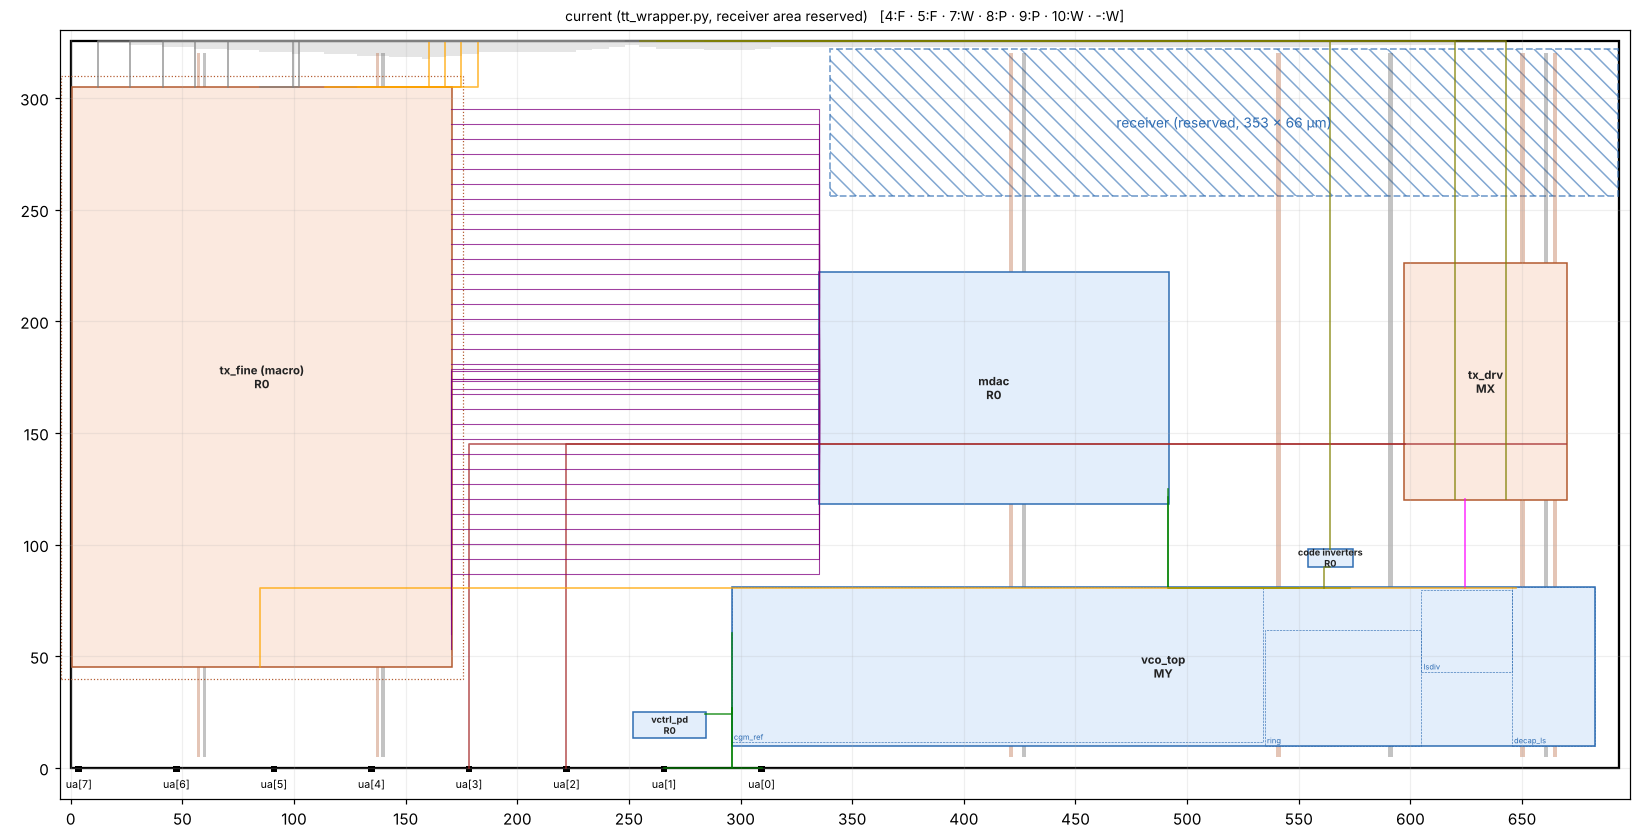
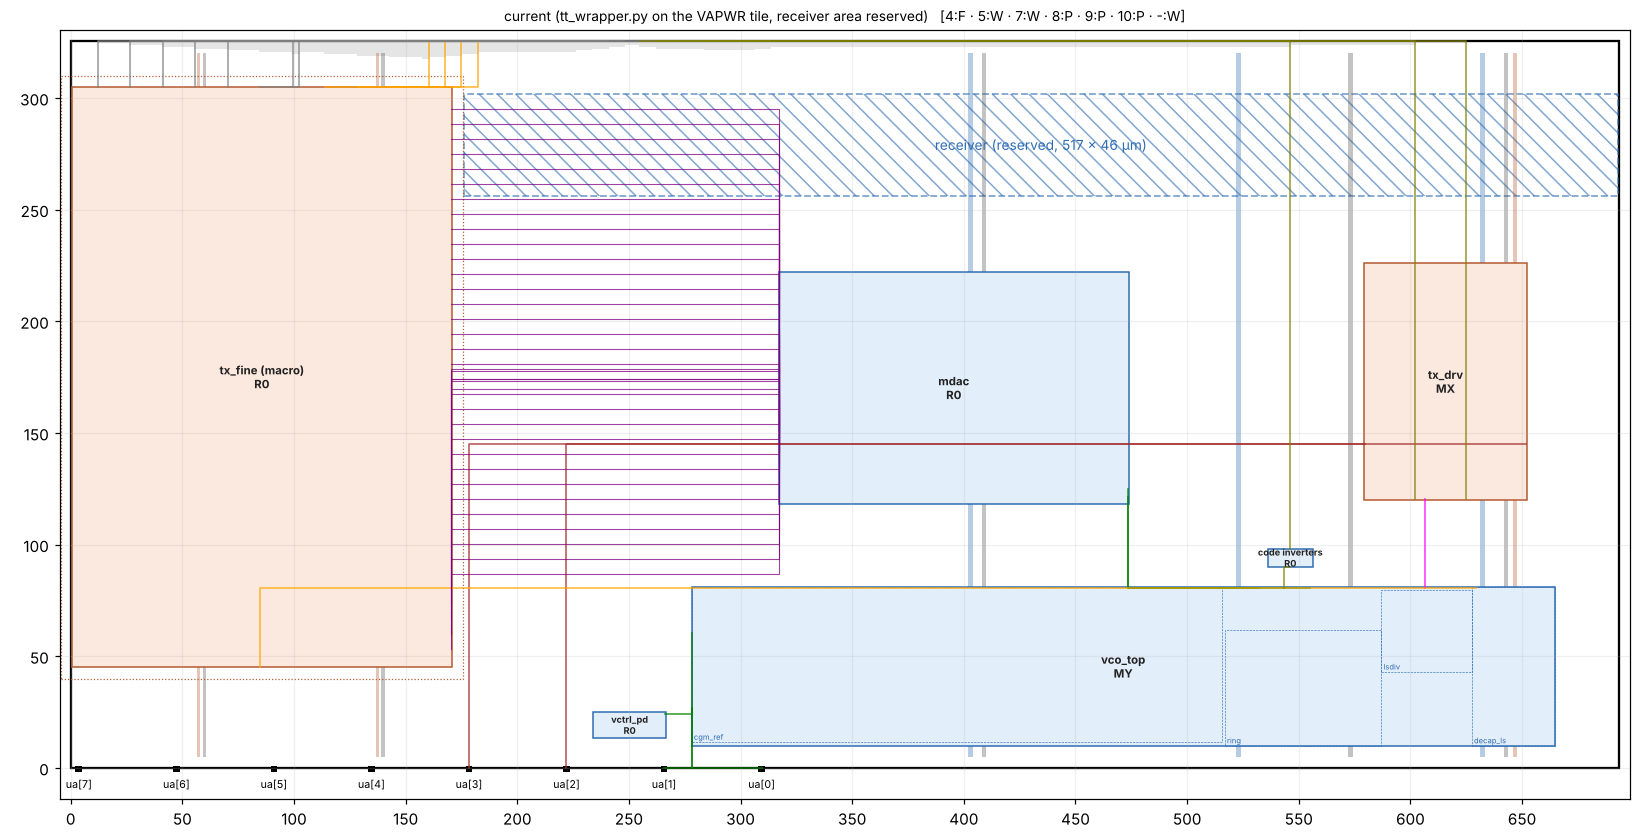
floorplan: "current" moved onto the VAPWR template (pgvaa)
Every block and stripe shifted 17.92 um left with the pins (the macro stays at x 0.6); the stripes on vco_top, mdac
and the code inverters become VAPWR. check.js --current compares against tt_wrapper's bboxes plus the shift.

Claude-Session: https://claude.ai/code/session_011q23dScbDKopB6GSLnshRw

diff --git a/layout/floorplan/page/place.js b/layout/floorplan/page/place.js
@@ -241,15 +241,16 @@ const SPECS = [
 
 function current() {
   const c = JSON.parse(fs.readFileSync(path.join(dir, 'current.json')));
-  const v = { id: 'current', name: 'current (tt_wrapper.py, receiver area reserved)', rx: 'block', order: 0, place: {}, decaps: {}, est: {}, straps: c.straps, reserved: [] };
+  const v = { id: 'current', name: 'current (tt_wrapper.py on the VAPWR tile, receiver area reserved)', rx: 'block', order: 0, place: {}, decaps: {}, est: {}, straps: c.straps, reserved: [] };
   for (const [n, p] of Object.entries(c.place)) v.place[n] = Object.assign({}, p);
   // the routes tt_wrapper draws, so the reserved area stays off them (out_n / out_p bars, the ua[0..3] drops, the
-  // bit / ck / top-pin tracks): rough keep-out boxes
-  const routes = [[178, 228, 520, 28], [178, 0, 15, 260], [233, 0, 15, 245], [250, 0, 60, 16], [170, 98, 450, 16], [170, 302, 160, 23]];
+  // bit / ck / top-pin tracks): rough keep-out boxes, in the wrapper's tile, moved with the blocks
+  const routes = [[178, 228, 520, 28], [178, 0, 15, 260], [233, 0, 15, 245], [250, 0, 60, 16], [170, 98, 450, 16], [170, 302, 160, 23]]
+    .map(r => [r[0] - 17.92, r[1], r[2], r[3]]);
   const r = freeRects(v, routes, 2000)[0];
   v.reserved.push({ x: r[0], y: r[1], w: r[2], h: r[3], label: `receiver (reserved, ${r[2]} x ${r[3]} µm)` });
-  v.note = `Today's tile from layout/gen/tt_wrapper.py (positions to 0.01 µm; node layout/floorplan/page/check.js --current), with the largest free rectangle that stays off its routes reserved for the receiver: ${r[2]} × ${r[3]} µm at (${r[0]}, ${r[1]}).\n` +
-    `The wrapper was drawn in the 711.20 µm tile (tt_analog_2x2.def); this page uses the _pgvaa template, 693.28 µm wide with every pin 17.92 µm further left, so its pad wires no longer land. Its stripes are VDPWR / VGND only (no VAPWR yet), so the supply rule fails on purpose. The receiver (rx_top, 299.4 × 370.6 µm) is parked under the tile: it fits nowhere as drawn.`;
+  v.note = `Today's tile from layout/gen/tt_wrapper.py, moved onto the VAPWR template (tt_analog_2x2_pgvaa.def, 693.28 µm wide, every pin 17.92 µm further left than in the wrapper's 711.20 µm tile): every block and stripe shifted 17.92 µm left with the pins, except the macro, which stays at x 0.6 (it would leave the tile). The stripes that fed vco_top, mdac and the code inverters are VAPWR now; tx_drv's and the macro's stay VDPWR. Positions: node layout/floorplan/page/check.js --current.\n` +
+    `The largest free rectangle off the wrapper's routes is reserved for the receiver: ${r[2]} × ${r[3]} µm at (${r[0]}, ${r[1]}). The receiver (rx_top, 299.4 × 370.6 µm, or 70.4k µm² of cells) fits nowhere in this tile as it is.`;
   return v;
 }
 

diff --git a/layout/floorplan/page/check.js b/layout/floorplan/page/check.js
@@ -2,7 +2,8 @@
 //   node layout/floorplan/page/check.js [variants.json | floorplan.json] [--current]
 // Default: layout/floorplan/variants.json (the variants Claude seeds into the page).
 // --current also checks that the "current" variant's blocks sit where tt_wrapper.py puts them (current.json,
-// computed with KLayout from the wrapper's own transformations), to 0.01 um. Exit code 1 if that fails.
+// computed with KLayout from the wrapper's own transformations), moved by current.json's x shift onto the VAPWR tile,
+// to 0.01 um. Exit code 1 if that fails.
 const fs = require('fs');
 const path = require('path');
 require('./engine.js');
@@ -27,8 +28,8 @@ for (const v of variants) {
   if (args.includes('--current') && v.id === 'current') {
     const cur = JSON.parse(fs.readFileSync(path.join(dir, 'current.json')));
     for (const [n, b] of Object.entries(cur.bbox)) {
-      const i = r.R.inst[n], d = i ? Math.max(...i.rect.map((q, k) => Math.abs(q - b[k]))) : Infinity;
-      console.log(`${d <= 0.01 ? 'ok  ' : 'FAIL'} current ${n.padEnd(6)} engine [${i ? i.rect.map(q => q.toFixed(3)).join(', ') : '-'}] vs tt_wrapper [${b.join(', ')}]  max |Δ| ${d.toFixed(4)} µm`);
+      const sh = (cur.shift || {})[n] || 0, i = r.R.inst[n], d = i ? Math.max(...i.rect.map((q, k) => Math.abs(q - (k === 0 ? b[0] + sh : b[k])))) : Infinity;
+      console.log(`${d <= 0.01 ? 'ok  ' : 'FAIL'} current ${n.padEnd(6)} engine [${i ? i.rect.map(q => q.toFixed(3)).join(', ') : '-'}] vs tt_wrapper [${b.join(', ')}] shifted ${sh}  max |Δ| ${d.toFixed(4)} µm`);
       if (!(d <= 0.01)) bad++;
     }
   }

diff --git a/tools/floorplan_current.py b/tools/floorplan_current.py
@@ -8,13 +8,18 @@ tt_wrapper.py inserts it with (db.Trans.M90 for vco_top, db.Trans.M0 for tx_drv,
 page orientation that gives the same bbox is recorded with it. `node layout/floorplan/page/check.js --current`
 compares the page engine's placed rectangles against these bboxes (they must agree to 0.01 um).
 
-tt_wrapper.py places everything in the 711.20 um tile (tt_analog_2x2.def); the coordinates are kept as they are.
-The _pgvaa template the floorplan uses is 693.28 um wide with every pin 17.92 um further left.
+tt_wrapper.py places everything in the 711.20 um tile (tt_analog_2x2.def). The floorplan uses the VAPWR template
+(tt_analog_2x2_pgvaa.def), 693.28 um wide with every pin 17.92 um further left, so "current" is today's tile moved onto
+it: every block and stripe shifted by DX = -17.92 um, keeping its place against the pads and the digital pins, except
+the macro, which would leave the tile (x -17.32): it stays at x 0.6 with its strap stripes. The stripes that feed the
+VAPWR blocks (vco_top's VDD and VDD_LS, mdac, the code inverters) become VAPWR (Matt 2026-11-16); tx_drv's stays VDPWR.
+`bbox` is the wrapper's own bbox (711.20 um tile) and `shift` the x shift applied, so check.js can compare the two.
 """
 import importlib.util
 import json
 import os
 
+DX = -17.92                                    # um: tt_analog_2x2.def -> tt_analog_2x2_pgvaa.def pin shift
 ROOT = os.path.normpath(os.path.join(os.path.dirname(os.path.abspath(__file__)), '..'))
 
 
@@ -30,23 +35,27 @@ def main():
         'xvpd': ('layout/vctrl_pd.gds', 'vctrl_pd', db.Trans(db.Vector(*T.VPD)), 'R0'),
         'xmac': (str(T.MAC_GDS.relative_to(T.REPO)), 'tx_fine', db.Trans(db.Vector(*T.MAC)), 'R0'),
     }
-    out = {'source': 'layout/gen/tt_wrapper.py', 'place': {}, 'bbox': {}}
+    out = {'source': 'layout/gen/tt_wrapper.py, moved onto tt_analog_2x2_pgvaa.def', 'place': {}, 'bbox': {}, 'shift': {}}
     for n, (g, c, tr, o) in inst.items():
         ly = db.Layout()
         ly.read(os.path.join(ROOT, g))
         b = ly.cell(c).bbox().transformed(tr).to_dtype(ly.dbu)
         out['bbox'][n] = [round(b.left, 3), round(b.bottom, 3), round(b.width(), 3), round(b.height(), 3)]
-        out['place'][n] = {'x': round(b.left, 3), 'y': round(b.bottom, 3), 'orient': o}
+        out['shift'][n] = 0.0 if n == 'xmac' else DX
+        out['place'][n] = {'x': round(b.left + out['shift'][n], 3), 'y': round(b.bottom, 3), 'orient': o}
     # the coarse-code inverter + antenna rows (tt_wrapper: from x 555.16 - 1.12 at INV_ROW_Y, two rows)
     x0 = (555160 - 1120) / 1000
-    out['place']['xbits'] = {'x': x0, 'y': T.INV_ROW_Y / 1000, 'orient': 'R0'}
+    out['shift']['xbits'] = DX
+    out['place']['xbits'] = {'x': round(x0 + DX, 3), 'y': T.INV_ROW_Y / 1000, 'orient': 'R0'}
     out['bbox']['xbits'] = [x0, T.INV_ROW_Y / 1000, 20.16, 2 * T.ROW_H / 1000]
-    out['straps'] = [{'net': n, 'x': x / 1000, 'w': w / 1000} for n, x, w in T.STRIPES]
+    VAP = {420000, 540000, 649140}               # tt_wrapper's VDPWR stripes on vco_top / mdac / the inverter row / VDD_LS
+    out['straps'] = [{'net': 'VAPWR' if (n == 'VDPWR' and x in VAP) else n,
+                      'x': round(x / 1000 + (0 if x < 200000 else DX), 3), 'w': w / 1000} for n, x, w in T.STRIPES]
     p = os.path.join(ROOT, 'layout', 'floorplan', 'current.json')
     with open(p, 'w') as fh:
         json.dump(out, fh, indent=1)
     for n, b in out['bbox'].items():
-        print(f'{n:6s} {out["place"][n]["orient"]:4s} bbox x {b[0]:.3f} ... {b[0] + b[2]:.3f}, y {b[1]:.3f} ... {b[1] + b[3]:.3f}')
+        print(f'{n:6s} {out["place"][n]["orient"]:4s} wrapper bbox x {b[0]:.3f} ... {b[0] + b[2]:.3f}, y {b[1]:.3f} ... {b[1] + b[3]:.3f}; placed at x {out["place"][n]["x"]}')
 
 
 if __name__ == '__main__':

diff --git a/docs/floorplan_spec.md b/docs/floorplan_spec.md
@@ -19,16 +19,16 @@ with this tile's blocks, pins, nets, supply domains and rules. The brief was `do
 |---|---|---|
 | `layout/floorplan/tile.json` | The tile outline (693.28 × 325.36 µm) and its 51 signal pins | `tools/floorplan_tile.py` from tt-support-tools `tech/gf180mcuD/def/analog/tt_analog_2x2_pgvaa.def` |
 | `layout/floorplan/blocks.json` | Every block's bbox, its pin labels (own frame, origin at the bbox's lower-left) and its Metal4 boxes; `rx_top` also lists where each of its cells sits; `tx_fine` lists its Metal4 power straps | `tools/floorplan_blocks.py` (needs `pip install klayout`) |
-| `layout/floorplan/current.json` | Today's tile (`layout/gen/tt_wrapper.py`): each block's placed bbox, computed with KLayout from the wrapper's own transformations | `tools/floorplan_current.py` |
+| `layout/floorplan/current.json` | Today's tile (`layout/gen/tt_wrapper.py`) moved onto the VAPWR template: each block's bbox as the wrapper places it (computed with KLayout from its own transformations) and the x shift applied | `tools/floorplan_current.py` |
 | `layout/floorplan/variants.json` | The variants seeded into the page (mirrors the page's store) | `layout/floorplan/page/place.js` |
 | `layout/floorplan/floorplan.json`, `pins.md` | The chosen variant, for the tile generator and the re-layouts | the page's export, or `layout/floorplan/page/pinreport.js` |
 
 **The template has changed size.** The VAPWR template `tt_analog_2x2_pgvaa.def` is **693.28 µm wide, not 711.20 µm**
 (the plain `tt_analog_2x2.def`), and every pin sits 17.92 µm further left: ua[0] … ua[7] at x 309.40, 265.72, 222.04,
 178.36, 134.68, 91.00, 47.32, 3.64 µm (pad centres), the digital pins between x 14.69 and 320.75 µm. The height
-(325.36 µm), the pin sizes and the stripe span (y 5 … 320.36 µm) are the same. `tt_wrapper.py` and
-`docs/top_layout.md` use the 711.20 µm tile and its pin positions, so the move to `_pgvaa` (integration prep, part C)
-must shift every pad route.
+(325.36 µm), the pin sizes and the stripe span (y 5 … 320.36 µm) are the same. **The tool uses the VAPWR template
+throughout** (Matt, 2026-11-16). `tt_wrapper.py` and `docs/top_layout.md` still use the 711.20 µm tile, so the page's
+"current" variant is today's tile moved onto the VAPWR one (below).
 
 ## What goes in the tile
 
@@ -118,8 +118,9 @@ block pin's x; at each x the channel is as tall as the number of wires there tim
 ## Checks of the tool
 - **"current" against `tt_wrapper.py`:** `check.js --current` compares the engine's placed rectangles with the bboxes
   KLayout computes from each block's GDS and the wrapper's own transformation (`db.Trans.M90` for vco_top,
-  `db.Trans.M0` for tx_drv). All six blocks agree to 0.000 µm (vco_top MY at x 296.0, y 10.0; tx_drv MX at 597.15,
-  120.0; mdac 335, 118; vctrl_pd 252, 13.2; tx_fine 0.6, 45; the code inverters 554.04, 90.16).
+  `db.Trans.M0` for tx_drv), plus the shift onto the VAPWR tile. All six blocks agree to 0.000 µm: in the wrapper
+  vco_top MY at x 296.0, y 10.0; tx_drv MX at 597.15, 120.0; mdac 335, 118; vctrl_pd 252, 13.2; tx_fine 0.6, 45; the
+  code inverters 554.04, 90.16. On the page every x but the macro's is 17.92 µm less.
 - **Mutation tests** (`mutate.js`): each breaks a copy of a variant in which its rule does not already fail; all 11
   are caught.
 
@@ -155,16 +156,19 @@ optimised layouts.
 
 | Variant | 1 | 2 | 3 | 4 | 5 | 6 | 7 | 8 | 9 | 10 |
 |---|---|---|---|---|---|---|---|---|---|---|
-| current | – | – | – | F | F | – | W | P | P | W |
+| current | – | – | – | F | W | – | W | P | P | P |
 | P1: VCO along the top, RX below it, macro top right | W | W | P | P | W | F | F | P | P | P |
 | P2: macro as hardened on the right edge, VCO along the top | W | W | P | F | W | F | W | P | P | P |
 | P3: RX left in two rows, VCO along the bottom, flat macro top right | P | P | P | P | W | F | W | P | P | P |
 
 ![current](img/floorplan/current.png)
 
-**Fig. 1.** "current": today's tile from `tt_wrapper.py`, with the largest free rectangle off its routes reserved
-for the receiver: 353 × 66 µm, far too small for the receiver's 70.4k µm² of cells. Its pad routes were drawn for
-the 711.20 µm tile, its stripes are VDPWR / VGND only (rules 5 and 10), and tx_drv's outputs run 520 / 636 µm.
+**Fig. 1.** "current": today's tile from `tt_wrapper.py` moved onto the VAPWR template. Every block and stripe is
+shifted 17.92 µm left with the pins, so each keeps its place against the pads and the digital pins. The macro is the
+exception: it stays at x 0.6, as it would otherwise leave the tile. The stripes on vco_top (VDD and VDD_LS), mdac and the
+code inverters are VAPWR, tx_drv's stays VDPWR. Rule 5 warns twice: vctrl_pd's nearest stripe is the macro's VDPWR, and
+tx_drv's nearest is the VDD_LS stripe, now VAPWR. tx_drv's outputs run 503 / 618 µm (rule 4). The largest free rectangle
+off the wrapper's routes, reserved for the receiver, is 517 × 46 µm: the receiver (70.4k µm² of cells) does not fit.
 
 ![P1](img/floorplan/P1.png)
 
@@ -206,7 +210,8 @@ re-layout. In P3 the tile is 88 % blocks and decap (26.6k µm² left, before rou
 5. **vctrl and vbn wires.** In every proposal that keeps the LO end of vco_top near the receiver, vctrl (the VCO's
    fine-tune node) runs a long way to ua[0]; a long vctrl wire picks up coupling as FM. Not a ranked rule yet.
 6. **Decap targets.** No tile-level target for VAPWR or VDPWR yet; the fill is reported in pF only.
-7. **The tile change to `_pgvaa`** moves every pin 17.92 µm left; `tt_wrapper.py` needs to follow.
+7. **`tt_wrapper.py` is still on the 711.20 µm template.** The page's "current" is a shifted copy; the wrapper
+   itself follows when the chosen floorplan goes into the tile generator.
 8. **The integration prep** (`rx-option-b`) had not started when this was written: when it reports Done, merge
    `rx-option-b` into `floorplan` and regenerate `blocks.json` (macro size, rx_en and a2 pins, VAPWR stripes).
 9. `layout/floorplan/floorplan.json` and `pins.md` are written when Matt picks a variant (page export, or
